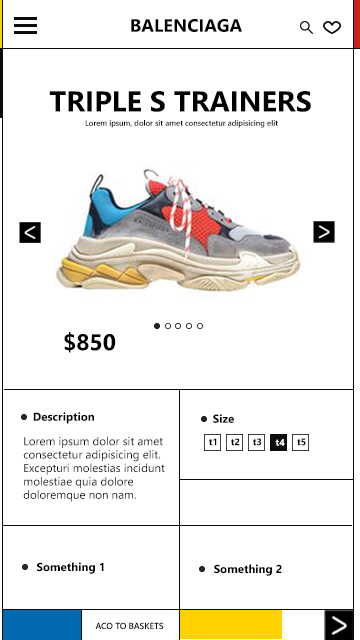
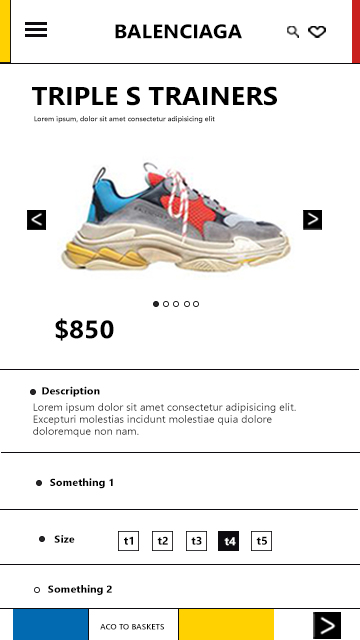
responsive 37.5 em ready!

diff --git a/src/components/details/Clothes/clothesDetail.css b/src/components/details/Clothes/clothesDetail.css
@@ -12,7 +12,7 @@
 }
 .header-order-product-one-detail{
     width: 100%;
-    height: 10%;
+    height: 10%;  
 }
 .header-order-product-one-detail>nav{
     display: flex;
@@ -313,7 +313,7 @@
     width: 17.5%;
     display: flex;
     align-items: center;
-    justify-content: center
+    justify-content: center;
 }
 .text-rectangle-footer-product-one-detail>p{
    font-weight: 700;
@@ -327,7 +327,6 @@
 .right-white-rectangle-footer-product-one-detail{
     border-right: solid;
     width: 13.8%;
-
 }
 .right-white-no-line-rectangle-footer-product-one-detail{
     color: white;
@@ -531,34 +530,62 @@
     .input-on-order-and-style::placeholder{
         font-size: 1.6vw;
     }
+    .top-gray-rectangle-middle-rectangle-main-product-one-detail{
+        display: none;
+    }
 /* Hay que arreglar a mi responsive, hay un tema con los display creo  */
+    .middle-rectangle-order-product-image-main-product-one-detail{
+        height: 41%;
+        width: 100%;
+        flex-direction: column;
+        border: none;
+    }
+    .section-one-middle-rectangle-main-clothes-D{
+        border-bottom: solid;
+        border-right:none ;
+        flex-direction: column;
+        width: 100%;
+        height: 40%;
+    }
+    .section-two-and-three-middle-rectangle-main-clothes-D{
+        border-bottom: solid;
+        border-right: none;
+        flex-direction: row;
+        width: 100%;
+        height: 20%;
+    }
     .section-one-middle-rectangle-main-clothes-D>ul,
     .section-two-and-three-middle-rectangle-main-clothes-D>ul{
         position: relative;
-        right: 2.4vw;
+        bottom: 1vw;
+        margin-top: 0;
     }
     .section-one-middle-rectangle-main-clothes-D h4,
     .section-two-and-three-middle-rectangle-main-clothes-D h4{
         font-size: 1.2vw;
     }
     .section-one-middle-rectangle-main-clothes-D>p{
-        font-size: 1vw;
-    }
-    .middle-rectangle-order-product-image-main-product-one-detail{
-        height: 40%;
+        position: relative;
+        bottom: 1vw;
+        font-size: 1.3vw;
+        margin-bottom:0;
+        padding-left: 3.3vw;
+        padding-right: 2vw;
     }
     .middle-rectangle-order-product-image-main-product-one-detail>section>div{
-        bottom: .5vw;
-        width: 90%;
+        bottom:0;
+        left: 2vw;
+        width: 50%;  
     }
     .middle-rectangle-order-product-image-main-product-one-detail button{
-       width: 2vw;
-       height: 2vw;
-       font-size: 1vw;
+       width: 3vw;
+       height: 3vw;
+       font-size: 1.5vw;
     }
-    /* Hay que arreglar a mi responsive, hay un tema con los display creo  */
     .right-rectangle-order-product-image-main-product-one-detail{
         height:64%;
+        border: none;
+        border-bottom: solid;
     }
     .right-rectangle-order-product-image-main-product-one-detail>img{
         width: 70%;
@@ -580,6 +607,7 @@
         width: 100%;
         height: 6%;
         display: flex;
+        border:none;
     }
     .text-rectangle-footer-product-one-detail>p{
        font-size: 1.3vw;

diff --git a/src/components/MainPagesBase/layoutSectionContents/layOutSectionContentThree.jsx b/src/components/MainPagesBase/layoutSectionContents/layOutSectionContentThree.jsx
@@ -53,7 +53,7 @@ const LayoutSectionContentThree = () => {
                 {
                     pathname === '/landingPages' ? <img className='original-page-section-order-three-img-normal' src={OPOrganicShapesLP} alt="pág. original Organic shapes  LP" /> :
                     pathname === '/homes' ? <img className='original-page-section-order-three-img-big' src={OPMarketplaceH} alt="pág. original Marketplace  H" /> :
-                    pathname === '/details' ? <img width='23.5%' src={OPNewsD} alt="pág. original News D" /> :
+                    pathname === '/details' ? <img className='op-News-details' src={OPNewsD} alt="pág. original News D" /> :
                     pathname === '/forms' ? <img className='original-page-section-order-three-img-big' src={OPCheckOutF} alt="pág. original CheckOut F" /> :
                     <img className='original-page-section-order-three-img-normal'src={OPClothesC} alt="pág. original Clothes C" /> 
                 }
@@ -118,9 +118,9 @@ const LayoutSectionContentThree = () => {
                                         </div> :
                                         pathname === '/details' ? 
                                         <div className='assets-icons-clothes-D'>
-                                            <img src="" alt="Ícono ni idea" />
+                                            {/* <img src="" alt="Ícono ni idea" /> */}
                                             <img src={UserInconWineD} alt="ícono user bordó" />
-                                            <img src="" alt="ícono ni idea dos" /> 
+                                            {/* <img src="" alt="ícono ni idea dos" />  */}
                                             <img src={FavInconWineD} alt="ícono favorito bordó" />
                                             <img src={WorldInconWineD} alt="ícono Mundo bordó" /> 
                                             <img src={HeartIconRedD} alt="ícono corazón rojo" /> 

diff --git a/src/components/homes/Ecommerce/ecommerce.css b/src/components/homes/Ecommerce/ecommerce.css
@@ -177,49 +177,55 @@
     .box-header-Ecommerce-homes >nav{
         height: 17%;
     }
+    .box-sesion-and-contact-Ecommerce-homes{
+        width: 12%;
+        height: 50%;
+        margin-top: 2vw;
+        margin-right: 4vw;
+    }
     .box-sesion-and-contact-Ecommerce-homes>a>img{
         margin-bottom: 1vw;
         width: 2vw;
     }
-    .box-sesion-and-contact-Ecommerce-homes{
-        width: 12%;
-        height: 50%;
-        margin-top: .5vw;
-        margin-right: 3vw;
+    .box-brand-and-sections-Ecommerce-homes{
+        margin-left: 13vw;
     }
     .box-brand-and-sections-Ecommerce-homes>h2{
-        margin-left: 25vw;
         font-size: 4vw;
     }
-
     .navicon-Ecommerce-order-and-styles{
         position: absolute;
         display: flex;
         font-size: 3vw;
         font-weight: 600;
-        left: 16vw;
+        left: 18vw;
         top: 107.5vw;
         color: white;
+        cursor: pointer;
     }
     .navicon-Ecommerce-less-601px{
         position: absolute;
         display: flex;
         flex-direction: column;
         justify-content: space-around;
-        right: 30vw;
-        margin-top: 21vw;
-        width: 11vw;
-        height: 16vw;
+        right: 45vw;
+        margin-top: 28vw;
+        width: 12vw;
+        height: 22vw;
         margin-left: 0;
-        background-color: rgba(33, 48, 71, 0.9);
-        border-radius:.7vw;
+        background-color: rgba(255, 255, 255, 0.9);
+        border-radius:.2vw;
+        padding-left: .7vw;
     }
     .navicon-Ecommerce-less-601px a{
-        font-size: 2vw;
-        color: white;
+        font-size: 1.8vw;
+        color: black;
         text-decoration: none;
         font-weight: 600;
         height: 1.7vw;
+    }
+    .navicon-Ecommerce-less-601px a:last-child{
+        margin-bottom: .5vw;
     }
     /* no aparce el navicon */
     .box-brand-and-sections-Ecommerce-homes>div{

diff --git a/src/components/homes/PersonalPage/PersonalPage.jsx b/src/components/homes/PersonalPage/PersonalPage.jsx
@@ -61,15 +61,15 @@ const PersonalPageHome = () => {
                 </nav>
                 <div className='box-intenal-body-personalPage-homes'>
                     <div className='box-data-and-image-personalPage-homes'>
+                        <div className='box-background-image-personalPage-homes'>
+                            <img className='backgroun-image-personalPage-homes' src={BackgroundImagePP} alt="Imagen de ella" />
+                        </div>
                         <div className='box-data-body-personalPage-homes'>
                             <h5>Hi There,</h5>
                             <h2>I am Ven<font color='#de2d49'>i</font>ssa</h2>
                             <h3>I am designer during daytime</h3>
                             <h4>& work with batman during nights.</h4>
                             <button>Ask Me How</button>
-                        </div>
-                        <div className='box-background-image-personalPage-homes'>
-                            <img className='backgroun-image-personalPage-homes' src={BackgroundImagePP} alt="Imagen de ella" />
                         </div>
                     </div>
                     <div className='box-footer-personalPage-homes'>

diff --git a/src/components/MainPagesBase/myLayoutsSection.css b/src/components/MainPagesBase/myLayoutsSection.css
@@ -310,6 +310,36 @@
     .order-all-componentes-article-three,
     .order-all-componentes-article-four{
         width: 90%;
+    }
+    .name-background-video-article-one,
+    .name-personal-page-article-one,
+    .name-clothes-article-one,
+    .name-login-article-one,
+    .name-news-article-one,
+    .name-original-shapes-article-one,
+    .name-promotional-article-one,
+    .name-marketplace-article-one,
+    .name-profile-article-one,
+    .name-register-article-one,
+    .name-check-out-article-one,
+    .name-contact-us-article-one,
+    .name-digital-newspaper-article-one{
+        height: 10vw;
+    }
+    .name-background-video-article-one>h2,
+    .name-personal-page-article-one>h2,
+    .name-clothes-article-one>h2,
+    .name-login-article-one>h2,
+    .name-news-article-one>h2,
+    .name-original-shapes-article-one>h2,
+    .name-promotional-article-one>h2,
+    .name-marketplace-article-one>h2,
+    .name-profile-article-one>h2,
+    .name-register-article-one>h2,
+    .name-check-out-article-one>h2,
+    .name-contact-us-article-one>h2,
+    .name-digital-newspaper-article-one>h2{
+        font-size: 7vw;
     } 
     .back-to-top-style,
     .go-to-the-next-style{

diff --git a/src/components/MainPagesBase/layoutSectionContents/layoutSectionContent.css b/src/components/MainPagesBase/layoutSectionContents/layoutSectionContent.css
@@ -526,6 +526,9 @@
     position: relative;
     bottom: 1.9vw;
 }
+.op-News-details{
+    width:23.5%; 
+}
 .assets-icons-marketplace-H,
 .assets-icons-clothes-c,
 .assets-multimedia-News-D{
@@ -665,6 +668,7 @@
 @media screen and (max-width: 64em) and (orientation: portrait) {
     .order-all-layout-section-content{
         height: 92%;
+        margin-top: 13vw;
     }
     .original-page-section-order-one{
         height: 25%;
@@ -728,8 +732,12 @@
         height: 25%;
         /* border: solid; */
     }
-    .original-page-section-order-one img{
+    .original-page-section-order-two-img,
+    .original-page-section-order-three-img-normal,
+    .original-page-section-order-one img
+    {
         width: 80%;
+        margin-top: 4vw;
     }
     .assets-section-order{
         height: 47vw;
@@ -769,6 +777,9 @@
     .original-page-section-four-order-three-img-big{
         width: 32%;
         bottom: 2vw;
+    }
+    .op-News-details{
+        width:30%; 
     }
     /* .news-card-order-section-content-one {
         width: 70%;

diff --git a/src/components/homes/Ecommerce/Ecommerce.jsx b/src/components/homes/Ecommerce/Ecommerce.jsx
@@ -9,8 +9,6 @@ const EcommerceHomes = () => {
     return(
         <div className="box-macro-Ecommerce-homes">
             <header className="box-header-Ecommerce-homes">
-            <div className='navicon-Ecommerce-order-and-styles'
-                 onMouseUp={() => setNaviconEOn(!naviconEOn)}>&#9776;</div>
                 <nav>
                     <div className="box-brand-and-sections-Ecommerce-homes">
                         <h2>UGMONK</h2>
@@ -42,6 +40,8 @@ const EcommerceHomes = () => {
                     }
                 </nav>
             </header>
+            <div className='navicon-Ecommerce-order-and-styles'
+                 onMouseUp={() => setNaviconEOn(!naviconEOn)}>&#9776;</div>
             <p className='image-text-order-and-style'>New collection <br/><a href="/">See more +</a></p>
             <div className="box-body-Ecommerce-homes">
                 <nav className="box-bottom-menu-Ecommerce-homes">

diff --git a/src/components/MainPagesBase/AllNames/allNamesStyles.css b/src/components/MainPagesBase/AllNames/allNamesStyles.css
@@ -56,7 +56,7 @@
 .cards-main-name-order>div:first-child>h2{
     margin: 0;
     margin-left: 1.2vw;
-    font-size: clamp(3em, 5.3vw, 8em);    
+    font-size: clamp(3.5em, 5.3vw, 8em);    
 }
 .landing-pages-main-name-order>div:last-child h2,
 .homes-main-name-order>div:last-child h2,
@@ -71,7 +71,7 @@
     background-position:center;
     background-clip: text;
     color: transparent;
-    font-size: clamp(3em, 5.3vw, 8em);
+    font-size: clamp(3.5em, 5.3vw, 8em);
 }
 .landing-pages-main-name-order>div:last-child h2:first-child,
 .homes-main-name-order>div:last-child h2:first-child,

diff --git a/src/components/homes/PersonalPage/personalPage.css b/src/components/homes/PersonalPage/personalPage.css
@@ -96,10 +96,13 @@
     width: 100%;
     height: 90.5%;
 }
+
 .box-data-and-image-personalPage-homes{
     display: flex;
+    flex-direction: row-reverse;
     width: 100%;
     height: 82%;
+    /* border: solid; */
 }
 .box-data-body-personalPage-homes{
     display: flex;
